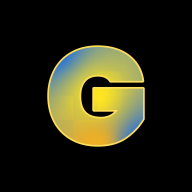
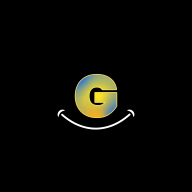
Bouton 'Gbairai', style, partage, tt

Changed region(s): [[0.2188, 0.2188, 0.7812, 0.7812]]

diff --git a/client/src/index.css b/client/src/index.css
@@ -1371,6 +1371,119 @@ body {
   }
 }
 
+/* Scoped Uiverse button for mobile create action */
+.mobile-create .button {
+  display: inline-flex;
+  align-items: center;
+  justify-content: center;
+  padding: 15px 30px;
+  border: 0;
+  position: relative;
+  overflow: hidden;
+  border-radius: 10rem;
+  transition: all 0.02s;
+  font-weight: bold;
+  cursor: pointer;
+  color: rgb(37, 37, 37);
+  z-index: 0;
+  box-shadow: 0 0px 7px -5px rgba(0, 0, 0, 0.5);
+  background: white;
+}
+
+.dark .mobile-create .button {
+  background: #f3f4f6;
+  color: #111827;
+}
+
+.mobile-create .button:hover {
+  background: rgb(193, 228, 248);
+  color: rgb(33, 0, 85);
+}
+
+.mobile-create .button:active {
+  transform: scale(0.97);
+}
+
+.mobile-create .hoverEffect {
+  position: absolute;
+  bottom: 0;
+  top: 0;
+  left: 0;
+  right: 0;
+  display: flex;
+  align-items: center;
+  justify-content: center;
+  z-index: 1;
+}
+
+.mobile-create .hoverEffect div {
+  /* Yellow → Blue gradient */
+  background: linear-gradient(90deg, #fbbf24 0%, #60a5fa 100%);
+  border-radius: 40rem;
+  width: 10rem;
+  height: 10rem;
+  transition: 0.4s;
+  filter: blur(20px);
+  animation: effect 3s linear infinite;
+  opacity: 0.5;
+}
+
+.mobile-create .button:hover .hoverEffect div {
+  width: 8rem;
+  height: 8rem;
+}
+
+@keyframes effect {
+  0% { transform: rotate(0deg); }
+  100% { transform: rotate(360deg); }
+}
+
+/* --- Theme-aware overrides for comments pages (respect light/dark) --- */
+/* Container backgrounds + borders */
+.comments-overlay {
+  background: rgba(0, 0, 0, 0.6);
+}
+
+.comments-card,
+.comments-container,
+.comment-form,
+.comment-item,
+.reply-item {
+  background: rgb(var(--card));
+  color: rgb(var(--card-foreground));
+  border-color: rgb(var(--border));
+}
+
+.comments-card .comments-header,
+.comment-form-header,
+.add-comment-section {
+  background: rgb(var(--card));
+  border-color: rgb(var(--border));
+}
+
+/* Text tones */
+.comment-author,
+.reply-time,
+.comment-char-count {
+  color: rgb(var(--text-secondary));
+}
+
+.comment-input,
+.comment-input::placeholder {
+  color: rgb(var(--foreground));
+}
+
+/* Buttons in comment areas */
+.send-btn,
+.add-comment-btn-fixed {
+  background: rgb(59, 130, 246);
+  color: white;
+}
+.send-btn:hover:not(:disabled),
+.add-comment-btn-fixed:hover {
+  background: rgb(37, 99, 235);
+}
+
 /* Animation pour le menu contextuel */
 @keyframes fadeIn {
   from {

diff --git a/client/src/components/Common/MobileNavigation.tsx b/client/src/components/Common/MobileNavigation.tsx
@@ -52,6 +52,18 @@ export function MobileNavigation() {
       <div className="flex items-center justify-around py-2">
         {navItems.map((item) => {
           const Icon = item.icon;
+          if (item.isCreate) {
+            return (
+              <Link key={item.href} href={item.href}>
+                <div className="px-1 py-1 mobile-create">
+                  <div className="button" role="button" aria-label="Créer un Gbairai">
+                    Gbairai
+                    <div className="hoverEffect"><div></div></div>
+                  </div>
+                </div>
+              </Link>
+            );
+          }
           return (
             <Link key={item.href} href={item.href}>
               <Button
@@ -59,18 +71,12 @@ export function MobileNavigation() {
                 size="sm"
                 className={cn(
                   "flex flex-col items-center gap-1 h-auto py-2 px-3 transition-colors",
-                  item.isCreate && "bg-blue-500 text-white hover:bg-blue-600 rounded-full",
-                  item.active && !item.isCreate && "text-blue-500",
-                  !item.active && !item.isCreate && (theme === "light" ? "text-gray-600" : "text-gray-300")
+                  item.active && "text-blue-500",
+                  !item.active && (theme === "light" ? "text-gray-600" : "text-gray-300")
                 )}
               >
-                <Icon className={cn("w-5 h-5", item.isCreate && "text-white")} />
-                <span className={cn(
-                  "text-xs font-medium",
-                  item.isCreate && "text-white"
-                )}>
-                  {item.label}
-                </span>
+                <Icon className="w-5 h-5" />
+                <span className="text-xs font-medium">{item.label}</span>
               </Button>
             </Link>
           );

diff --git a/client/src/components/Common/LoadingPage.tsx b/client/src/components/Common/LoadingPage.tsx
@@ -4,39 +4,11 @@ import React from 'react';
 export function LoadingPage() {
   return (
     <div className="min-h-screen bg-gray-100 flex justify-center items-center">
-      <div className="comic-brutalist-loader">
-        <div className="loader-container">
-          <div className="comic-panel">
-            <div className="speech-bubble">
-              <span className="loading-text">Tu es au courant..?</span>
-              <div className="dots">
-                <span className="dot">!</span>
-                <span className="dot">?</span>
-                <span className="dot">!</span>
-              </div>
-            </div>
-            <div className="comic-character">
-              <div className="character-head"></div>
-              <div className="character-body"></div>
-              <div className="character-eyes">
-                <div className="eye left"></div>
-                <div className="eye right"></div>
-              </div>
-              <div className="character-mouth"></div>
-            </div>
-            <div className="starburst">
-              <div className="star-spike"></div>
-              <div className="star-spike"></div>
-              <div className="star-spike"></div>
-              <div className="star-spike"></div>
-              <div className="star-spike"></div>
-              <div className="star-spike"></div>
-              <div className="star-spike"></div>
-              <div className="star-spike"></div>
-            </div>
-          </div>
-        </div>
-      </div>
+      <img
+        src="/logo_anim.gif"
+        alt="Chargement Gbairai"
+        style={{ width: 160, height: 'auto' }}
+      />
     </div>
   );
 }

diff --git a/client/src/pages/profile-page.tsx b/client/src/pages/profile-page.tsx
@@ -309,30 +309,6 @@ export default function ProfilePage() {
               </CardContent>
             </Card>
 
-            <Card className="bg-white/90 dark:bg-gray-800/90 border-gray-300 dark:border-gray-700 backdrop-blur-sm">
-              <CardHeader>
-                <CardTitle className="text-gray-900 dark:text-white">Informations du compte</CardTitle>
-              </CardHeader>
-              <CardContent>
-                <div className="space-y-3">
-                  <div>
-                    <span className="text-sm text-gray-600 dark:text-gray-400">Nom d'utilisateur</span>
-                    <p className="font-medium text-gray-900 dark:text-white">{user.username}</p>
-                  </div>
-                  <div>
-                    <span className="text-sm text-gray-600 dark:text-gray-400">Email</span>
-                    <p className="font-medium text-gray-900 dark:text-white">{user.email}</p>
-                  </div>
-                  <div>
-                    <span className="text-sm text-gray-600 dark:text-gray-400">Membre depuis</span>
-                    <p className="font-medium text-gray-900 dark:text-white">
-                      {formatDistanceToNow(new Date(user.createdAt || new Date()), { locale: fr })}
-                    </p>
-                  </div>
-                </div>
-              </CardContent>
-            </Card>
-
             {/* Liens légaux et informations */}
             <div className="pb-2">
               <Card className="bg-white/90 dark:bg-gray-800/90 border-gray-300 dark:border-gray-700 backdrop-blur-sm mb-64">

diff --git a/client/src/components/Gbairai/GbairaiCardMobile.tsx b/client/src/components/Gbairai/GbairaiCardMobile.tsx
@@ -721,6 +721,19 @@ export function GbairaiCardMobile({
           box-shadow: 0 8px 24px rgba(0,0,0,0.35) !important;
           overflow: hidden !important;
         }
+        /* Top-centered logo */
+        .share-capture .brand-logo {
+          position: absolute !important;
+          top: 16px !important;
+          left: 59% !important; /* slight nudge to the right */
+          transform: translateX(-50%) !important;
+          width: 90px !important; /* bigger logo */
+          height: auto !important;
+          opacity: 0.95 !important;
+          filter: drop-shadow(0 2px 6px rgba(0,0,0,0.35));
+          pointer-events: none !important;
+          user-select: none !important;
+        }
         /* Global colors */
         .share-capture * { color: #ffffff !important; }
         .share-capture .text-gray-900, .share-capture .dark\\:text-white, .share-capture .text-white { color: #ffffff !important; }
@@ -762,6 +775,13 @@ export function GbairaiCardMobile({
         }
       `;
       document.head.appendChild(styleEl);
+
+      // Ajouter le logo centré en haut pour la capture
+      const logoEl = document.createElement('img');
+      logoEl.src = '/LogoSend.png';
+      logoEl.alt = 'Gbairai Logo';
+      logoEl.className = 'brand-logo';
+      tempCard.appendChild(logoEl);
 
       // Ajouter la copie temporaire au DOM (invisible)
       tempCard.style.position = 'absolute';

diff --git a/client/src/components/Common/MobileLayout.tsx b/client/src/components/Common/MobileLayout.tsx
@@ -62,7 +62,6 @@ export function MobileLayout({ children, className, showTopButtons = true, rende
         <div className="flex items-center justify-between">
           <div>
             <h1 className="text-xl font-bold text-foreground">Gbairai</h1>
-            <p className="text-sm text-muted-foreground">Racont' ton Gbairai, on t'écoute sans te voir.</p>
             {renderBelowSubtitle && (
               <div className="mt-2 flex justify-center">
                 {renderBelowSubtitle}
